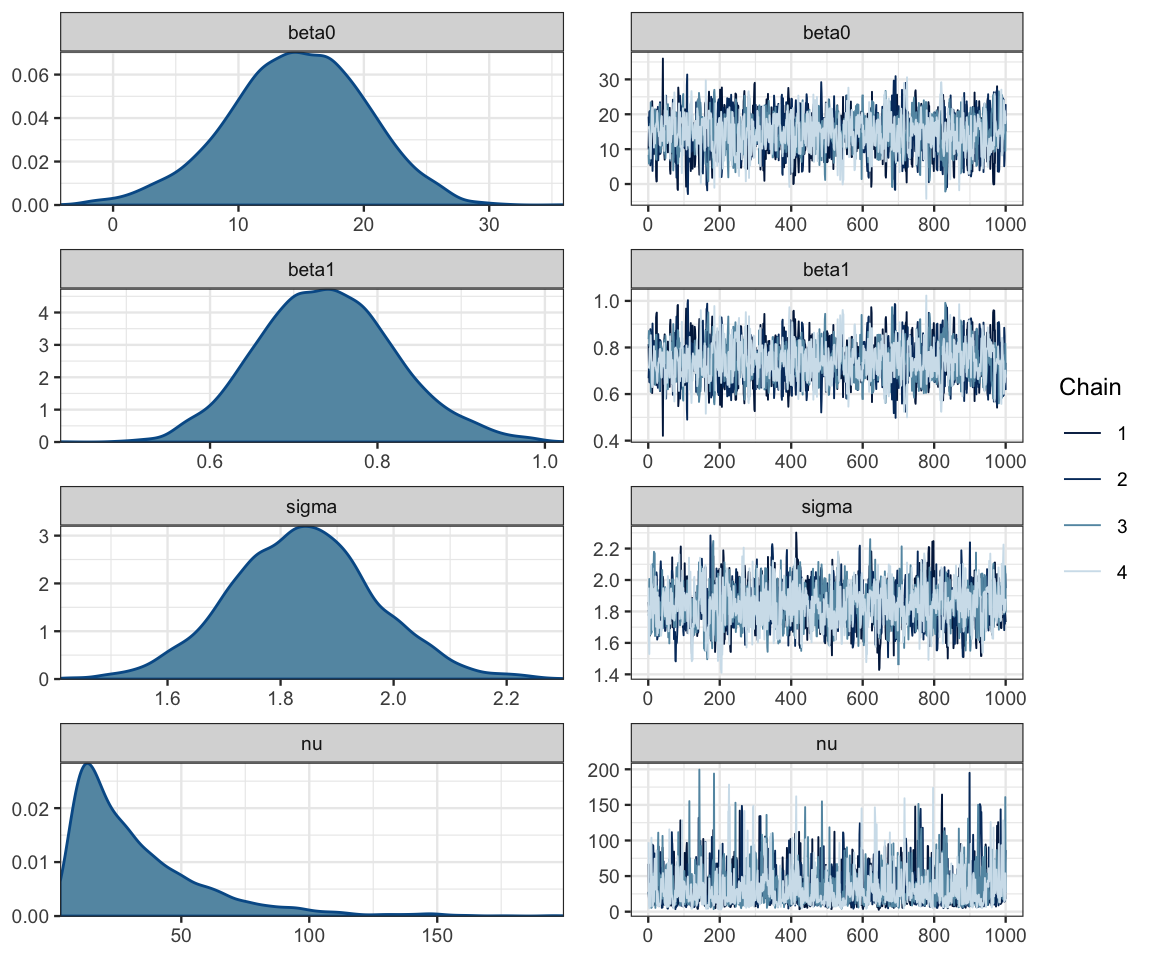
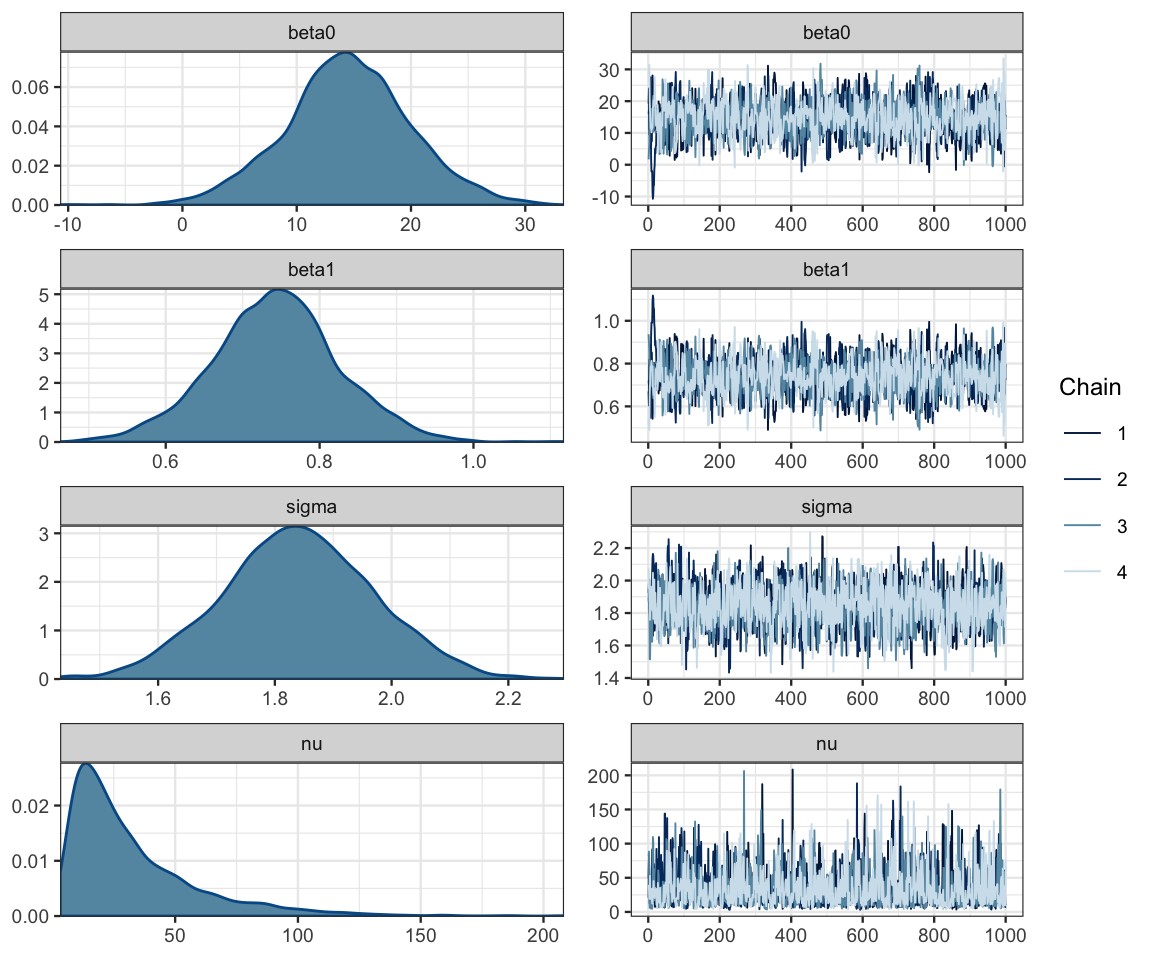
rebuild ch17

diff --git a/docs/simple-linear-regression.html b/docs/simple-linear-regression.html
@@ -25,7 +25,7 @@
 <meta name="author" content="R Pruim">
 
 
-<meta name="date" content="2019-04-01">
+<meta name="date" content="2019-04-02">
 
   <meta name="viewport" content="width=device-width, initial-scale=1">
   <meta name="apple-mobile-web-app-capable" content="yes">
@@ -1061,14 +1061,14 @@ but this doesn’t bother Stan the way it bothers JAGS.</p>
 ## post-warmup draws per chain=1000, total post-warmup draws=4000.
 ## 
 ##               mean se_mean    sd    2.5%     25%     50%     75%   97.5% n_eff Rhat
-## beta0        14.69    0.15  5.47    3.39   11.08   14.81   18.53   25.02  1373    1
-## beta1         0.74    0.00  0.08    0.59    0.68    0.74    0.79    0.91  1372    1
-## sigma         1.84    0.00  0.13    1.59    1.75    1.84    1.92    2.10  1520    1
-## nuMinusOne   31.68    0.63 26.05    5.31   13.08   23.86   42.31  100.70  1711    1
-## nu           32.68    0.63 26.05    6.31   14.08   24.86   43.31  101.70  1711    1
-## lp__       -249.99    0.04  1.35 -253.50 -250.62 -249.66 -249.00 -248.33  1401    1
+## beta0        14.48    0.16  5.52    3.51   11.07   14.46   17.92   25.64  1227    1
+## beta1         0.74    0.00  0.08    0.58    0.69    0.74    0.79    0.91  1225    1
+## sigma         1.84    0.00  0.13    1.59    1.76    1.84    1.93    2.10  1648    1
+## nuMinusOne   31.61    0.63 26.32    5.08   13.11   23.33   41.89  102.06  1754    1
+## nu           32.61    0.63 26.32    6.08   14.11   24.33   42.89  103.06  1754    1
+## lp__       -250.04    0.04  1.42 -253.65 -250.71 -249.71 -249.02 -248.31  1268    1
 ## 
-## Samples were drawn using NUTS(diag_e) at Mon Apr  1 21:51:00 2019.
+## Samples were drawn using NUTS(diag_e) at Tue Apr  2 00:24:42 2019.
 ## For each parameter, n_eff is a crude measure of effective sample size,
 ## and Rhat is the potential scale reduction factor on split chains (at 
 ## convergence, Rhat=1).</code></pre>
@@ -1149,7 +1149,7 @@ galton2_stanfit &lt;-
 ## nu           35.29    0.57 27.59    7.32   16.27   26.91   44.92  110.43  2346    1
 ## lp__       -317.84    0.04  1.57 -321.78 -318.64 -317.51 -316.69 -315.80  1689    1
 ## 
-## Samples were drawn using NUTS(diag_e) at Mon Apr  1 13:33:58 2019.
+## Samples were drawn using NUTS(diag_e) at Tue Apr  2 00:06:56 2019.
 ## For each parameter, n_eff is a crude measure of effective sample size,
 ## and Rhat is the potential scale reduction factor on split chains (at 
 ## convergence, Rhat=1).</code></pre>
@@ -1173,7 +1173,7 @@ Post_galton2 &lt;-<span class="st"> </span><span class="kw">posterior</span>(gal
 <pre class="sourceCode r"><code class="sourceCode r"><span class="kw">mcmc_areas</span>(galton2_mcmc, <span class="dt">regex_pars =</span> <span class="st">&quot;log10nu&quot;</span>, <span class="dt">prob =</span> <span class="fl">0.95</span>)</code></pre>
 <p><img src="Redoing_files/figure-html/ch17-galton2-areas-2.png" width="576" /></p>
 <pre class="sourceCode r"><code class="sourceCode r">GaltonBoth &lt;-<span class="st"> </span>GaltonBoth <span class="op">%&gt;%</span><span class="st"> </span><span class="kw">mutate</span>(<span class="dt">g =</span> <span class="kw">as.numeric</span>(sex))
-<span class="kw">head</span>(GaltonBoth, <span class="dv">3</span>)</code></pre>
+<span class="kw">head</span>(GaltonBoth, <span class="dv">3</span>) </code></pre>
 <pre><code>## # A tibble: 3 x 8
 ## # Groups:   family [3]
 ##   family father mother sex   height nkids midparent     g
